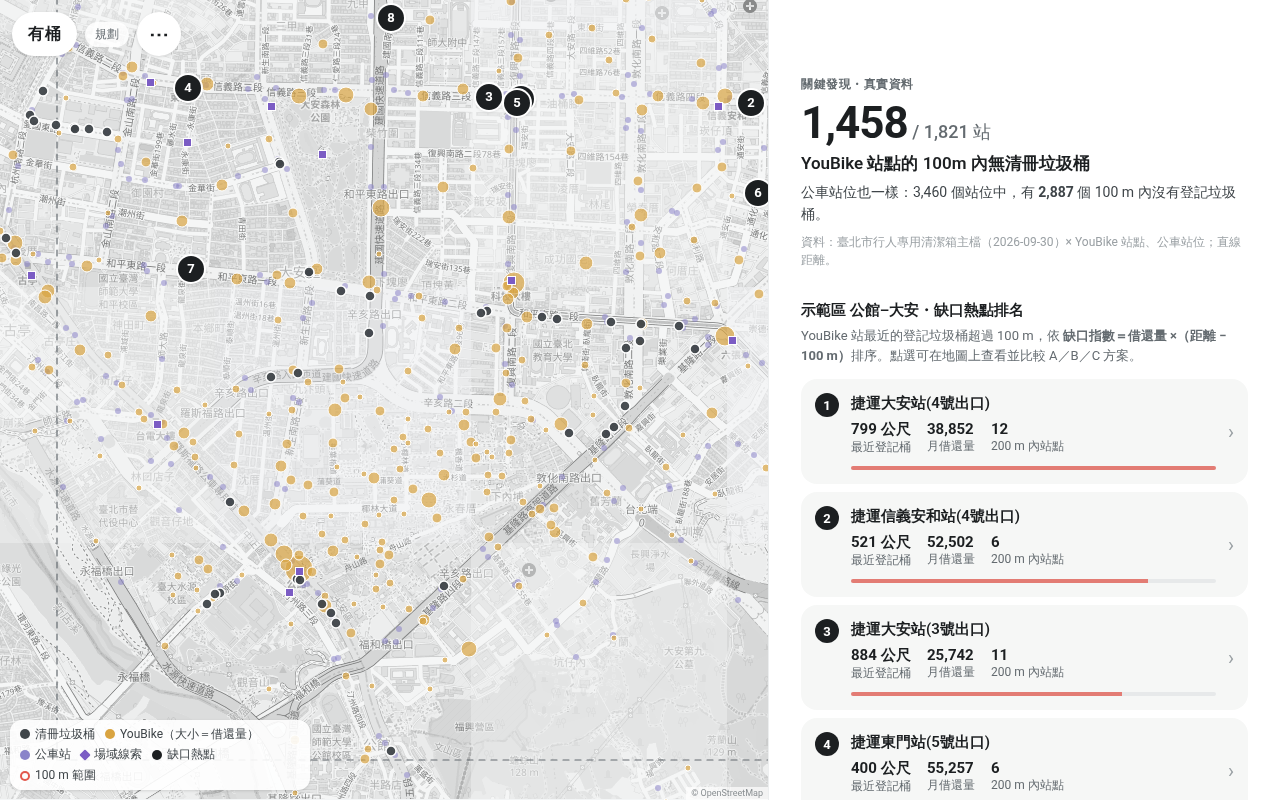
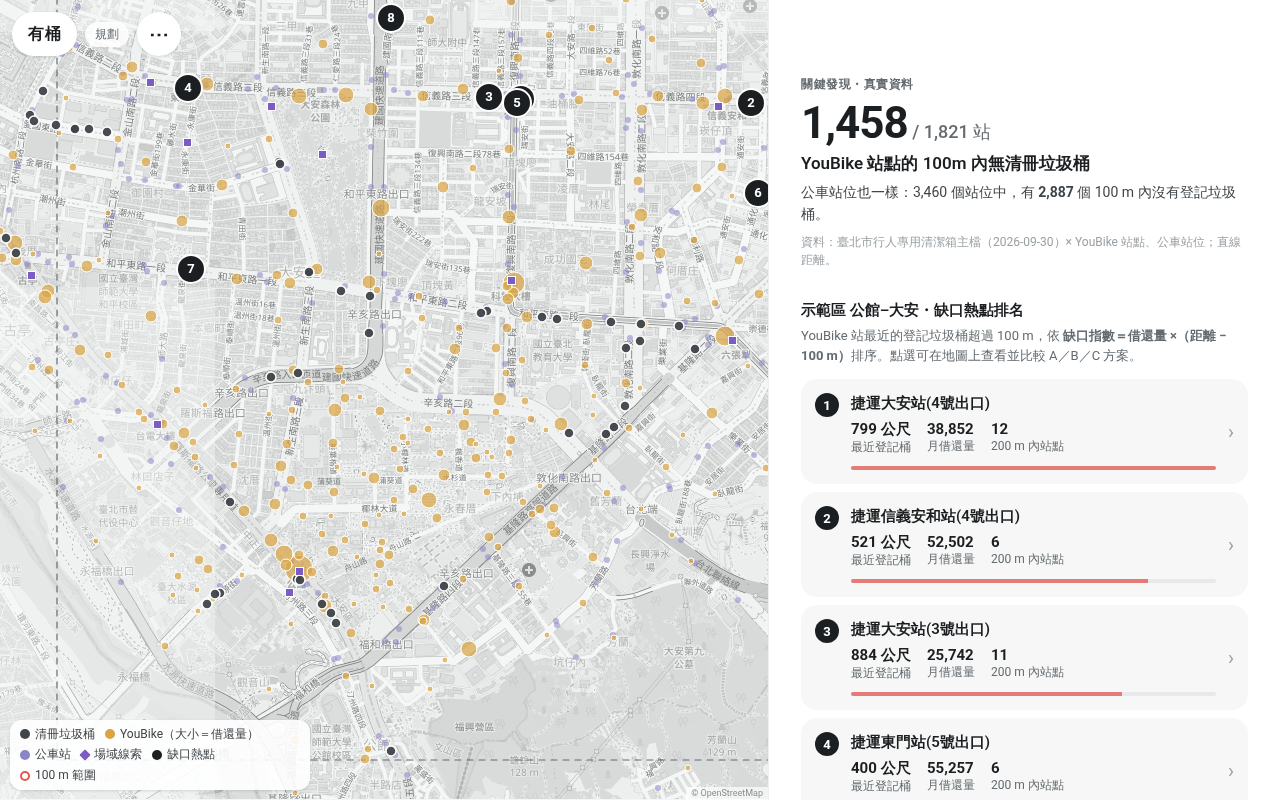
Config-driven fallback location (興雅國中公車站); fillColor via ui.js rampColor, baseMap via quietMap, nav renders into ⋯ menu only; remove unused crewRouting flag; README: files, event amount fields, real bin categories, test selectors

diff --git a/common.js b/common.js
@@ -1,16 +1,18 @@
 // 共用：導覽列、資料、localStorage、距離、填充度
-const TPE_MAIN=(window.CONFIG&&CONFIG.fallbackLocation.latlng)||[25.0375,121.5637];
-const TPE_NAME=(window.CONFIG&&CONFIG.fallbackLocation.name)||'台北市政府';
+const TPE_MAIN=(window.CONFIG&&CONFIG.fallbackLocation.latlng)||[25.037232,121.568269];
+const TPE_NAME=(window.CONFIG&&CONFIG.fallbackLocation.name)||'興雅國中公車站';
 const LS_EVENTS=(window.CONFIG&&CONFIG.storageKeys.events)||'debug松_events_v1';
-function nav(active){
+function nav(active){ // 角色切換（渲染在 ⋯ 選單內的 .rolenav）
   const tabs=[['index.html','📊','規劃'],['pedestrian.html','🚶','行人'],['crew.html','🧹','清潔隊']];
-  document.querySelector('header').innerHTML='<div class="brand"><span>有桶</span></div><nav class="tabs">'+tabs.map(t=>`<a href="${t[0]}" class="${t[0]===active?'on':''}"><span>${t[1]}</span>${t[2]}</a>`).join('')+'</nav>';
+  const host=document.querySelector('.rolenav header')||document.querySelector('header');if(!host)return;
+  host.innerHTML='<nav class="tabs">'+tabs.map(t=>`<a href="${t[0]}" class="${t[0]===active?'on':''}"><span>${t[1]}</span>${t[2]}</a>`).join('')+'</nav>';
 }
 function sheet(){ // 手機底部面板：點把手切換大小
   const p=document.querySelector('.panel'),h=p.querySelector('.handle');if(!h)return;
   h.onclick=()=>{if(p.classList.contains('exp')){p.classList.remove('exp');p.classList.add('min')}else if(p.classList.contains('min'))p.classList.remove('min');else p.classList.add('exp')};
 }
-function baseMap(center,zoom){
+function baseMap(center,zoom){ // 優先使用 ui.js 的去飽和底圖
+  if(typeof quietMap==='function'){const m=quietMap(center,zoom);L.control.zoom({position:'topright'}).addTo(m);return m}
   const m=L.map('map',{preferCanvas:true,zoomControl:false}).setView(center,zoom);
   L.control.zoom({position:'topright'}).addTo(m);
   L.tileLayer('https://{s}.tile.openstreetmap.org/{z}/{x}/{y}.png',{maxZoom:19,attribution:'© OpenStreetMap'}).addTo(m);
@@ -28,7 +30,7 @@ const getEvents=()=>{try{return JSON.parse(localStorage.getItem(LS_EVENTS))||[]}
 function addEvent(e){const a=getEvents();a.push({...e,ts:Date.now()});localStorage.setItem(LS_EVENTS,JSON.stringify(a.slice(-500)))}
 function seedFill(id){let h=2166136261;for(const c of id){h^=c.charCodeAt(0);h=Math.imul(h,16777619)}return (h>>>0)%101} // 模擬：依 id 固定
 function fillOf(id,ev=getEvents()){let f=seedFill(id);for(const e of ev)if(e.bin===id){f=e.kind==='full'?100:e.kind==='clear'?0:e.level}return f}
-const fillColor=f=>f>=80?'#e5484d':f>=50?'#e8a317':'#0f9d76';
+const fillColor=f=>typeof rampColor==='function'?rampColor(f):(f>=80?'#e2574c':f>=50?'#e2a33b':'#8aa3a3'); // 色階定義在 ui.js
 const fillPill=f=>`<span class="pill ${f>=80?'full':f>=50?'mid':'ok'}">${f}%</span>`;
 const timeStr=ts=>new Date(ts).toLocaleString('zh-TW',{month:'numeric',day:'numeric',hour:'2-digit',minute:'2-digit',hour12:false});
 

diff --git a/config.js b/config.js
@@ -13,7 +13,7 @@ window.CONFIG={
     caveat:'清冊不等於現場完整現況；北投 0 列、南港 4 列為資料缺漏。'
   },
   demoArea:{name:'公館–大安',bounds:[[25.0075,121.5240],[25.0400,121.5560]],center:[25.0215,121.5380],zoom:15},
-  fallbackLocation:{name:'台北市政府',latlng:[25.0375,121.5637]},
+  fallbackLocation:{name:'興雅國中公車站',latlng:[25.037232,121.568269]}, // 行人頁定位失敗時的示範位置
   hotspot:{gapThresholdM:100, maxList:8},          // 缺口：最近清冊垃圾桶 > 100m
   scenarioB:{ // B 原位改善：模擬參數（假設，可調整）
     baseCapacityL:80, newCapacityL:120,            // 容量（公升）
@@ -24,6 +24,5 @@ window.CONFIG={
   // C：只從熱點 1km 內挑桶；移走後原位置附近（600m 內）不得有站點新增「200m 內無桶」；符合者中挑周邊 200m 活動量最低者
   suggestion:{bIfBinWithinM:100, cMinReduction100:1}, // 建議規則（假設，可調整）：熱點 ≤100m 有桶→B；C 可行且減少 ≥1 個 100m 無桶站→C；否則 A
   compare:[{name:'捷運公館站(2號出口)',label:'人流最高'},{name:'捷運大安站(4號出口)',label:'缺口最大'}], // 「人流高 ≠ 缺口大」比較卡
-  storageKeys:{scenario:'debug松_scenario_v2',events:'debug松_events_v1'},
-  features:{crewRouting:false}                      // 清潔隊動態路線（隱藏；網址加 ?route=1 也可開）
+  storageKeys:{scenario:'debug松_scenario_v2',events:'debug松_events_v1'}
 };

diff --git a/pedestrian.html b/pedestrian.html
@@ -201,10 +201,8 @@ seg.onclick=e=>{const b=e.target.closest('[data-m]');if(!b)return;mode=b.dataset
 hotBtn.onclick=()=>{if(scen){adv.hidden=true;sel=null;setPos([scen.hotLa,scen.hotLo].every(Boolean)?[scen.hotLa,scen.hotLo]:scen.moved?scen.moved.to:CONFIG.demoArea.center,'熱點：'+scen.hotspotName)}};
 
 loadCore().then(d=>{D=d;SC.all=[...D.yb,...D.bus];binsBefore=D.street;
-  // 示範位置：興雅國中公車站（市政府東側約 460 m；最近清潔箱 松仁路32號 約 180 m，你的位置不會和桶重疊）
-  const DEMO={name:'興雅國中',la:25.037232,lo:121.568269};
-  const bs=D.bus.filter(s=>s.name===DEMO.name).map(s=>({s,d:hav(DEMO.la,DEMO.lo,s.la,s.lo)})).sort((a,b)=>a.d-b.d)[0];
-  demoLoc=bs&&bs.d<50?{la:bs.s.la,lo:bs.s.lo,name:`${bs.s.name}公車站`}:{la:TPE_MAIN[0],lo:TPE_MAIN[1],name:TPE_NAME};
+  // 示範位置：讀 config.js > fallbackLocation（預設興雅國中公車站，最近清潔箱約 180 m）
+  demoLoc={la:TPE_MAIN[0],lo:TPE_MAIN[1],name:TPE_NAME};
   chips.hidden=!binCatsVaried(D.street); // 全市同為「一般＋回收」→ 篩選無意義，隱藏（逐桶欄位出現時自動顯示）
   const ST=[...D.yb,...D.bus].filter(s=>SC.inArea(s.la,s.lo)),HS=SC.hotspots(ST,D.street);
   scen=SC.load();

diff --git a/README.md b/README.md
@@ -16,8 +16,8 @@
 | 頁面 | 檔案 | 功能 |
 |---|---|---|
 | 規劃（主頁） | `index.html` | 開場數字（來自 `config.js`）、示範區缺口熱點、點熱點看 A/B/C 指標對照與地圖變化，「採用」後存入 localStorage |
-| 行人 | `pedestrian.html` | 定位（拒絕時改用台北市政府，可點地圖手動設定）、最近 5 個垃圾桶＋Google Maps 步行導航、「調整前／調整後」距離比較、回報「滿了」 |
-| 清潔隊 | `crew.html` | 模擬滿溢告警清單、單筆或一鍵回報已清運（動態路線保留在 `crew-route.html`，預設隱藏；`config.js` 的 `features.crewRouting` 或 `crew.html?route=1` 開啟） |
+| 行人 | `pedestrian.html` | 定位（拒絕時改用示範位置 興雅國中公車站（`config.js > fallbackLocation`），可點地圖手動設定）、最近 5 個垃圾桶＋Google Maps 步行導航、「調整前／調整後」距離比較、回報「滿了」 |
+| 清潔隊 | `crew.html` | 單一頁面：依行政區產生清運順序，逐站回報收運量（空／半滿／滿／溢出）並標記已清運，可復原。舊網址 `crew-route.html` 會自動導向 `crew.html` |
 
 ## 怎麼執行
 ```bash
@@ -26,9 +26,24 @@ python3 -m http.server 8765   # 開 http://localhost:8765/index.html
 ```
 純靜態網站（HTML/CSS/原生 JS + Leaflet），沒有後端；所有路徑都是相對路徑，可直接放到 GitHub Pages（repo 根目錄），已附 `.nojekyll`。Leaflet 已放在 `vendor/`，不依賴 CDN；**地圖底圖仍需網路**（OpenStreetMap）。離線備援：`demo-backup.mp4` 示範影片。
 
-開場數字、示範區範圍與方案參數都在 **`config.js`**，改這個檔案即可。
+開場數字、示範區範圍、行人頁示範位置與方案參數都在 **`config.js`**，改這個檔案即可。
 
-重建資料：`python3 aggregate_youbike_trips.py`（需先下載 2026-07 租借紀錄 ZIP 到 `/workspace/raw/`）→ `python3 prep.py`（需 shapely、pyproj）。測試：`python test_mvp.py`（Playwright）。
+### 檔案結構
+| 檔案 | 用途 |
+|---|---|
+| `config.js` | 可編輯設定（開場數字、示範區、方案參數、假設） |
+| `common.js` | 資料載入、距離、localStorage 事件、填充度（工程邏輯） |
+| `scenario.js` | A/B/C 方案引擎 |
+| `tokens.css` | 設計 token（顏色、間距、字級） |
+| `ui.css` | 共用元件樣式（⋯ 選單、抽屜、圖例） |
+| `ui.js` | 視覺層：滿度色階 `rampColor()`、去飽和底圖 `quietMap()`、圖例、抽屜 |
+| `bin-category.js`、`bin-icons.js` | 垃圾桶類別與地圖圖示（行人頁） |
+| `common.css` | 舊版共用樣式 |
+
+### localStorage 事件格式
+`{bin, kind:'full'|'level'|'clear', level, by:'行人'|'清潔隊', ts, amount, amountPct}`；清潔隊回報收運量時 `amount` 為 `empty|half|full|overflow`，`amountPct` 對應 0／50／100／120。
+
+重建資料：`python3 aggregate_youbike_trips.py`（需先下載 2026-07 租借紀錄 ZIP 到 `/workspace/raw/`）→ `python3 prep.py`（需 shapely、pyproj）。測試：`python test_mvp.py`（Playwright，桌面 1280×800＋手機 390×844）。行人頁的熱點／調整前後在「⋯ 更多」面板（`#more` → `#hotBtn`、`[data-m=after]`，`#advClose` 關閉，`#doneBtn` → `[data-full]` 回報滿了）；清潔隊頁用 `#next [data-amt]` 回報收運量。
 
 ## 資料來源（真實開放資料）
 | 資料 | 來源 | 授權 | 用法 |
@@ -46,11 +61,12 @@ TDX 公車 API 需申請金鑰（未使用）。
 | 項目 | 性質 |
 |---|---|
 | 垃圾桶、YouBike、公車站的位置 | **真實**開放資料（清冊不等於現場完整現況） |
+| 垃圾桶類別（一般垃圾＋資源回收） | **真實（全市一致說明）**：清冊沒有逐桶類別欄位；依環保局全市說明「每組包含一般垃圾箱與資源回收箱各 1 個」（中時 2025-08-17、聯合報報導），行人頁每桶都標一般＋回收，`bin-category.js` 的 `binCategory()` 回傳 `simulated:false`。若日後有逐桶欄位會自動改用 |
 | YouBike 借＋還次數 | **真實**紀錄的彙總，但當作人流時是**推估** |
 | 公車每站停靠路線數 | **推估**（路線數不是上下車人數） |
 | **交通活動量是人流的推估，不等於垃圾量** | — |
-| 垃圾桶填充度、滿溢告警 | **模擬**（依桶編號固定產生；行人回報會覆蓋） |
-| B 方案滿溢時數（容量、清運頻率、每千次借還產生公升數） | **模擬**，參數在 `config.js` |
+| 垃圾桶填充度、滿溢告警 | **模擬**（依桶編號固定產生；行人與清潔隊回報會覆蓋）——目前唯一的模擬資料欄位 |
+| B 方案模擬參數與滿溢假設（容量、清運頻率、每千次借還產生公升數） | **模擬／假設**，參數在 `config.js` |
 | C 方案移桶、行人頁「調整後」 | **情境模擬**，不是實際設置 |
 | 距離 | 直線距離，不是步行距離 |
 
